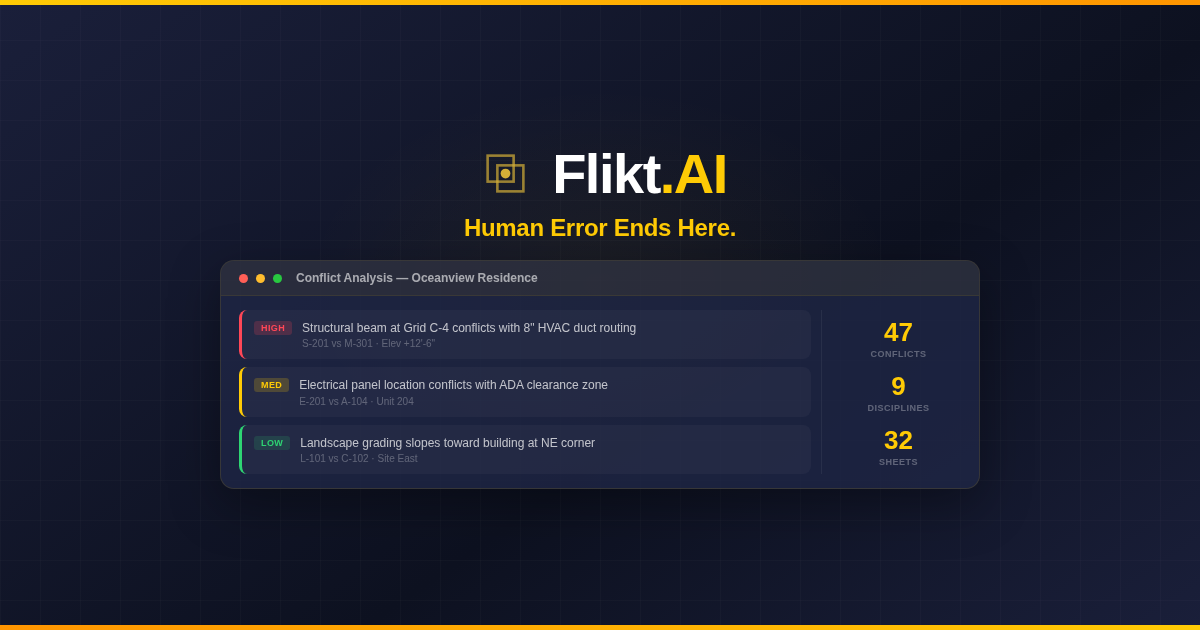
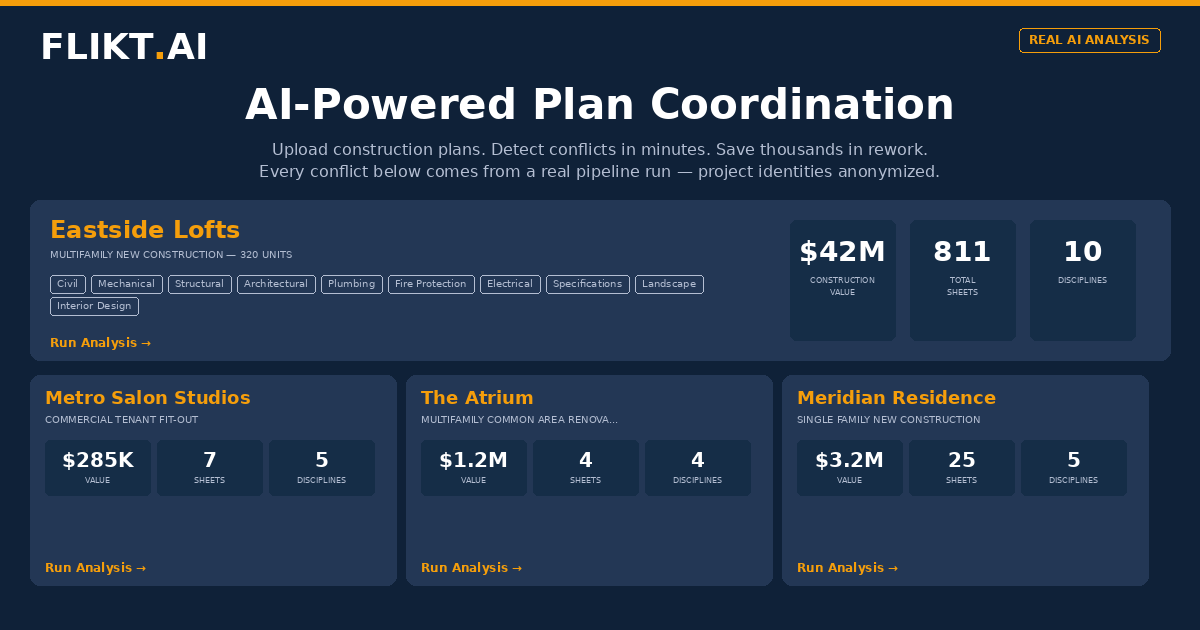
Update OG image + fix og:url to demo.flikt.ai
Replace og_final_demo.png with current demo projects (Eastside Lofts,
Metro Salon Studios, The Atrium, Meridian Residence). Fix og:url from
flikt.ai/demo/ to demo.flikt.ai/ per S114 L101.

diff --git a/index.html b/index.html
@@ -8,7 +8,7 @@
 <meta property="og:type" content="website">
 <meta property="og:title" content="Flikt.AI &mdash; Plan Conflict Detection Demo">
 <meta property="og:description" content="AI-powered plan conflict detection. Real coordination issues found across 10 disciplines.">
-<meta property="og:url" content="https://flikt.ai/demo/">
+<meta property="og:url" content="https://demo.flikt.ai/">
 <meta property="og:site_name" content="Flikt.AI">
 <meta property="og:image" content="og_final_demo.png">
 <meta property="og:image:width" content="1200">

diff --git a/_build/build_demo.py b/_build/build_demo.py
@@ -253,7 +253,7 @@ LANDING_TEMPLATE = r"""<!DOCTYPE html>
 <meta property="og:type" content="website">
 <meta property="og:title" content="Flikt.AI &mdash; Plan Conflict Detection Demo">
 <meta property="og:description" content="AI-powered plan conflict detection. Real coordination issues found across 10 disciplines.">
-<meta property="og:url" content="https://flikt.ai/demo/">
+<meta property="og:url" content="https://demo.flikt.ai/">
 <meta property="og:site_name" content="Flikt.AI">
 <meta property="og:image" content="og_final_demo.png">
 <meta property="og:image:width" content="1200">